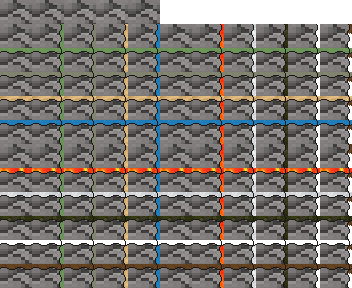
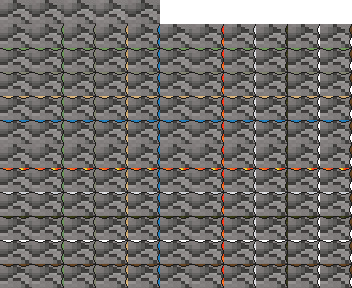
Tune landing rendering

Changed region(s): [[0.0, 0.0938, 1.0, 1.0]]

diff --git a/src/helpers/LandingTransitionGenerator.php b/src/helpers/LandingTransitionGenerator.php
@@ -21,7 +21,7 @@ class LandingTransitionGenerator
     private $padding = 0;
 
     /** @var float Amplitude of the wavy line */
-    private $waveAmplitude = 1.5;
+    private $waveAmplitude = 1;
 
     /** @var float Frequency of the wavy line (waves per tile) */
     private $waveFrequency = 2.0;
@@ -238,8 +238,8 @@ class LandingTransitionGenerator
         $wavyX = [];
         for ($y = 0; $y < $this->tileHeight; $y++) {
             $t = $y / ($this->tileHeight - 1);
-            $wave = sin($t * 2 * M_PI * $this->waveFrequency) * $this->waveAmplitude;
-            $wavyX[$y] = (int)round($this->tileWidth - 4 + $wave);
+            $wave = cos($t * 2 * M_PI * $this->waveFrequency) * $this->waveAmplitude;
+            $wavyX[$y] = (int)round($this->tileWidth - 1 - $this->waveAmplitude + $wave);
         }
 
         // Copy pixels from right image for positions right of wavy line
@@ -268,8 +268,8 @@ class LandingTransitionGenerator
         $wavyY = [];
         for ($x = 0; $x < $this->tileWidth; $x++) {
             $t = $x / ($this->tileWidth - 1);
-            $wave = sin($t * 2 * M_PI * $this->waveFrequency) * $this->waveAmplitude;
-            $wavyY[$x] = (int)round(4 - $wave);
+            $wave = cos($t * 2 * M_PI * $this->waveFrequency) * $this->waveAmplitude;
+            $wavyY[$x] = (int)round($this->waveAmplitude - $wave);
         }
 
         // Copy pixels from top image for positions above wavy line
@@ -298,16 +298,16 @@ class LandingTransitionGenerator
         $topWavyY = [];
         for ($x = 0; $x < $this->tileWidth; $x++) {
             $t = $x / ($this->tileWidth - 1);
-            $wave = sin($t * 2 * M_PI * $this->waveFrequency) * $this->waveAmplitude;
-            $topWavyY[$x] = (int)round(4 - $wave);
+            $wave = cos($t * 2 * M_PI * $this->waveFrequency) * $this->waveAmplitude;
+            $topWavyY[$x] = (int)round($this->waveAmplitude - $wave);
         }
 
         // Right edge wavy X positions
         $rightWavyX = [];
         for ($y = 0; $y < $this->tileHeight; $y++) {
             $t = $y / ($this->tileHeight - 1);
-            $wave = sin($t * 2 * M_PI * $this->waveFrequency) * $this->waveAmplitude;
-            $rightWavyX[$y] = (int)round($this->tileWidth - 4 + $wave);
+            $wave = cos($t * 2 * M_PI * $this->waveFrequency) * $this->waveAmplitude;
+            $rightWavyX[$y] = (int)round($this->tileWidth - 1 - $this->waveAmplitude + $wave);
         }
 
         // Apply regions based on L-shaped boundary
